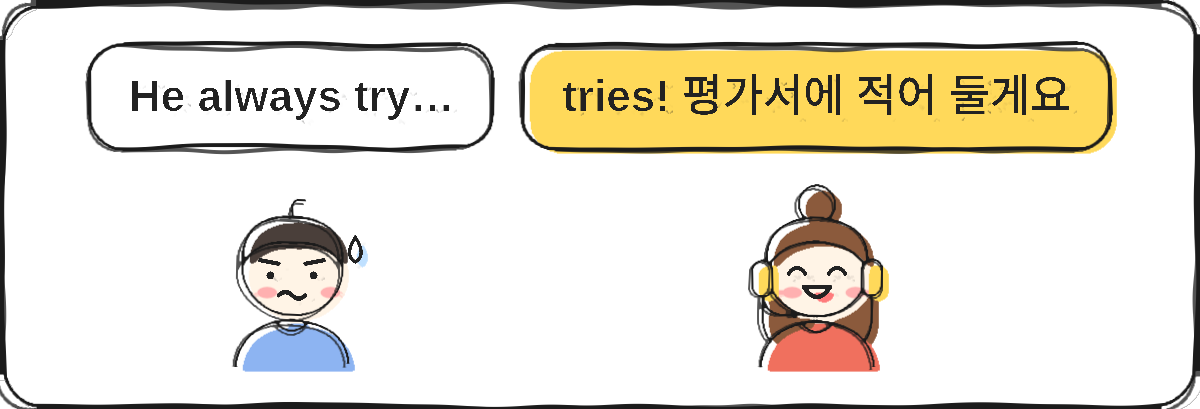
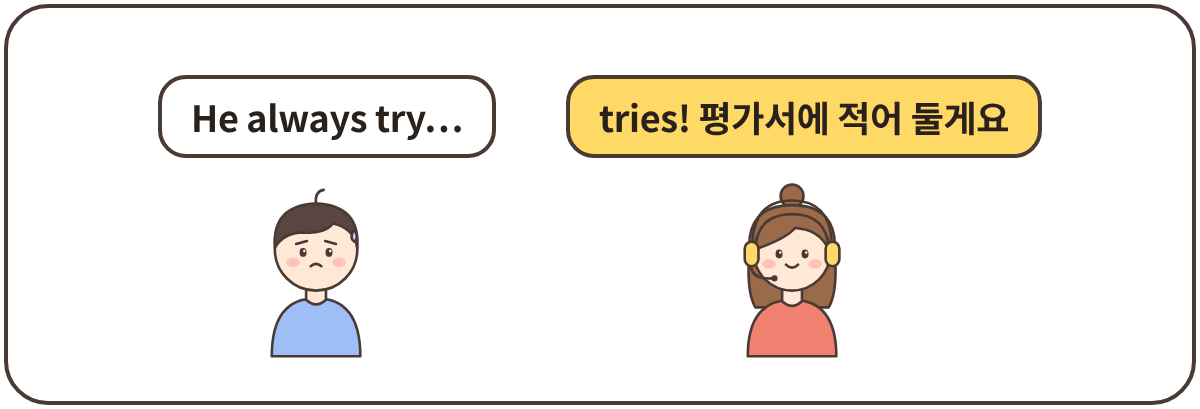
Manual: redraw illustrations with clean-line characters and the turtle guide
Replaces the doodle-style scenes (scene-1..9) with the new student,
teacher and turtle characters. Same file names and sizes, so the
manual page picks them up without an HTML change. Generators are in
tools/characters.

Claude-Session: https://claude.ai/code/session_01HUwuhdCWRQ2zhtChAaUpVm

diff --git a/tools/characters/chars.py b/tools/characters/chars.py
@@ -1,0 +1,123 @@
+#!/usr/bin/env python3
+"""아인잉글리쉬 캐릭터(학생·선생님·마스코트) SVG/PNG 생성기 — 깔끔한 선 버전.
+사용법: python3 tools/chars.py ch/
+선은 한 번만, 부드러운 갈색으로. 색은 선 안에 맞춘다."""
+import sys, os
+INK='#4A3A34'; SKIN='#FFE8D6'; CORAL='#F0806F'; BLUE='#9DBFF5'; YEL='#FFD966'; HAIR_S='#5A4640'; HAIR_T='#9A6A4A'; PINK='#FFA8A0'; W='#FFFFFF'
+ST=f'stroke="{INK}" stroke-width="3.4" stroke-linecap="round" stroke-linejoin="round"'
+
+def face(mood,cx=100,cy=100):
+    o=f'<ellipse cx="{cx-30}" cy="{cy+13}" rx="9" ry="6" fill="{PINK}" opacity=".6"/><ellipse cx="{cx+30}" cy="{cy+13}" rx="9" ry="6" fill="{PINK}" opacity=".6"/>'
+    eye=lambda x:f'<ellipse cx="{x}" cy="{cy}" rx="4.6" ry="5.8" fill="{INK}"/><circle cx="{x+1.6}" cy="{cy-2}" r="1.6" fill="#fff"/>'
+    arc=lambda x:f'<path d="M{x-7},{cy+2} Q{x},{cy-7} {x+7},{cy+2}" fill="none" {ST}/>'
+    if mood=='smile': o+=eye(cx-17)+eye(cx+17)+f'<path d="M{cx-8},{cy+14} Q{cx},{cy+22} {cx+8},{cy+14}" fill="none" {ST}/>'
+    elif mood=='happy': o+=arc(cx-17)+arc(cx+17)+f'<path d="M{cx-9},{cy+13} Q{cx},{cy+27} {cx+9},{cy+13} Z" fill="#E0604F" {ST} stroke-width="2.6"/>'
+    elif mood=='worry':
+        o+=eye(cx-17)+eye(cx+17)
+        o+=f'<path d="M{cx-26},{cy-11} L{cx-12},{cy-15}" fill="none" {ST} stroke-width="2.8"/><path d="M{cx+26},{cy-11} L{cx+12},{cy-15}" fill="none" {ST} stroke-width="2.8"/>'
+        o+=f'<path d="M{cx-7},{cy+18} Q{cx},{cy+12} {cx+7},{cy+18}" fill="none" {ST}/>'
+        o+=f'<path d="M{cx+50},{cy-30} q-7,11 0,16 q7,-5 0,-16Z" fill="#B5D4FA" {ST} stroke-width="2.4"/>'
+    elif mood=='open': o+=eye(cx-17)+eye(cx+17)+f'<ellipse cx="{cx}" cy="{cy+18}" rx="6" ry="7" fill="#E0604F" {ST} stroke-width="2.6"/>'
+    return o
+
+def P(d,fill): return f'<path d="{d}" fill="{fill}" {ST}/>'
+def C(cx,cy,r,fill): return f'<circle cx="{cx}" cy="{cy}" r="{r}" fill="{fill}" {ST}/>'
+
+def student(mood='smile',arms=None):
+    o=''
+    if arms=='up':
+        for sx in(-1,1):
+            o+=P(f'M{100+sx*40},186 Q{100+sx*72},170 {100+sx*70},122 L{100+sx*86},124 Q{100+sx*92},186 {100+sx*58},214 Z',BLUE)+C(100+sx*79,110,12,SKIN)
+    o+=P('M42,240 Q42,164 100,164 Q158,164 158,240 Z',BLUE)
+    o+=f'<path d="M87,140 L87,166 Q100,178 113,166 L113,140" fill="{SKIN}" {ST}/>'
+    o+=C(100,100,54,SKIN)
+    o+=P('M46,98 Q42,42 100,40 Q158,42 154,98 Q150,72 122,66 Q112,80 78,78 Q56,80 46,98 Z',HAIR_S)
+    o+=f'<path d="M100,40 Q98,24 110,22" fill="none" {ST}/>'
+    o+=face(mood,100,104)
+    if arms=='book':
+        o+=P('M56,204 Q78,196 100,206 Q122,196 144,204 L144,246 Q122,238 100,248 Q78,238 56,246 Z',W)+f'<path d="M100,206 L100,248" fill="none" {ST}/>'
+        o+=C(54,226,10,SKIN)+C(146,226,10,SKIN)
+    return o
+
+def teacher(mood='smile',arms=None):
+    o=C(100,30,15,HAIR_T)
+    o+=P('M44,104 Q40,42 100,42 Q160,42 156,104 Q160,156 148,176 L52,176 Q40,156 44,104 Z',HAIR_T)
+    o+=P('M42,240 Q42,166 100,166 Q158,166 158,240 Z',CORAL)
+    o+=f'<path d="M87,142 L87,168 Q100,180 113,168 L113,142" fill="{SKIN}" {ST}/>'
+    o+=C(100,104,50,SKIN)
+    o+=P('M52,100 Q54,54 100,54 Q146,54 148,100 Q136,74 104,72 Q92,86 52,100 Z',HAIR_T)
+    o+=f'<path d="M48,92 Q50,36 100,36 Q150,36 152,92" fill="none" {ST}/>'
+    o+=f'<rect x="38" y="90" width="18" height="32" rx="9" fill="{YEL}" {ST}/><rect x="144" y="90" width="18" height="32" rx="9" fill="{YEL}" {ST}/>'
+    o+=f'<path d="M46,122 Q48,140 74,138" fill="none" {ST} stroke-width="2.8"/><circle cx="77" cy="138" r="4" fill="{INK}"/>'
+    o+=face(mood,100,106)
+    if arms=='wave':
+        o+=P('M148,206 Q170,196 174,164 L188,168 Q188,214 160,230 Z',CORAL)+C(182,152,13,SKIN)
+        o+=f'<path d="M204,134 q7,6 5,15 M214,126 q10,9 8,22" fill="none" {ST} stroke-width="2.6"/>'
+    return o
+
+def mascot(mood='smile',arms=None):
+    o=f'<ellipse cx="84" cy="238" rx="13" ry="6.5" fill="{INK}"/><ellipse cx="116" cy="238" rx="13" ry="6.5" fill="{INK}"/>'
+    if arms=='up': o+=P('M66,170 Q40,160 36,134 L48,130 Q54,150 72,156 Z',W)+P('M134,170 Q160,160 164,134 L152,130 Q146,150 128,156 Z',W)
+    elif arms=='point': o+=P('M134,178 Q162,174 182,156 L190,166 Q170,190 138,192 Z',W)
+    o+=f'<ellipse cx="100" cy="190" rx="40" ry="48" fill="{W}" {ST}/>'
+    o+=f'<path d="M48,92 Q50,34 100,34 Q150,34 152,92" fill="none" stroke="{INK}" stroke-width="15" stroke-linecap="round"/><path d="M48,92 Q50,34 100,34 Q150,34 152,92" fill="none" stroke="{CORAL}" stroke-width="8.5" stroke-linecap="round"/>'
+    o+=C(100,102,50,W)
+    o+=f'<rect x="36" y="82" width="22" height="42" rx="11" fill="{CORAL}" {ST}/><rect x="142" y="82" width="22" height="42" rx="11" fill="{CORAL}" {ST}/>'
+    o+=face(mood,100,104)
+    if arms=='paper':
+        o+=f'<rect x="64" y="166" width="72" height="58" rx="7" fill="{W}" {ST}/><rect x="74" y="177" width="32" height="7" rx="3.5" fill="{CORAL}"/><rect x="74" y="191" width="52" height="5" rx="2.5" fill="#E2DCD6"/><rect x="74" y="202" width="42" height="5" rx="2.5" fill="#E2DCD6"/><rect x="74" y="213" width="48" height="5" rx="2.5" fill="{YEL}"/>'
+        o+=C(62,198,9,W)+C(138,198,9,W)
+    return o
+
+def svg(body,vb='-10 -4 250 262'): return f'<svg xmlns="http://www.w3.org/2000/svg" viewBox="{vb}">{body}</svg>'
+SET={'student-smile':student('smile'),'student-worry':student('worry'),'student-cheer':student('happy','up'),'student-open':student('open'),'student-book':student('happy','book'),
+     'teacher-smile':teacher('happy'),'teacher-wave':teacher('happy','wave'),'teacher-soft':teacher('smile'),
+     'mascot-smile':mascot('happy'),'mascot-point':mascot('happy','point'),'mascot-paper':mascot('smile','paper')}
+if __name__=='__main__':
+    out=sys.argv[1]; os.makedirs(out,exist_ok=True)
+    from playwright.sync_api import sync_playwright
+    with sync_playwright() as pw:
+        b=pw.chromium.launch(executable_path='/usr/bin/google-chrome'); pg=b.new_page(viewport={'width':500,'height':524})
+        for k,v in SET.items():
+            s=svg(v); open(f'{out}/{k}.svg','w').write(s)
+            pg.set_content(f'<body style="margin:0;background:transparent">{s.replace("<svg ","<svg width=500 height=524 ")}</body>'); pg.screenshot(path=f'{out}/{k}.png',omit_background=True)
+        b.close()
+
+# ---- 거북이 (인스타 프로필의 직장인 거북이 원본을 보고 같은 그림체로) ----
+GREEN='#A3CC52'; SHELL='#8E5A2B'; NAVY='#2F4270'; BELLY='#D9AE6C'
+def turtle(mood='tired',arms='coffee'):
+    # 원본 비율: 머리와 몸통이 거의 같은 폭, 셔츠 입은 몸통이 머리를 받친다
+    o=f'<path d="M104,136 Q144,126 160,150 Q176,180 168,214 Q160,240 130,238 L104,232 Z" fill="{SHELL}" {ST}/>'
+    o+=f'<path d="M156,160 L168,164 M160,188 L172,192 M156,214 L166,220" fill="none" stroke="{INK}" stroke-width="2.4" stroke-linecap="round"/>'
+    o+=f'<rect x="70" y="220" width="24" height="32" rx="10" fill="{GREEN}" {ST}/><rect x="108" y="220" width="24" height="32" rx="10" fill="{GREEN}" {ST}/>'
+    o+=P('M54,222 Q100,248 148,222 L146,206 L56,206 Z',BELLY)
+    if arms=='up': o+=P('M62,172 Q34,160 30,128 L46,124 Q50,150 72,156 Z',GREEN)+P('M140,172 Q168,160 172,128 L156,124 Q152,150 130,156 Z',GREEN)
+    elif arms=='point': o+=P('M138,170 Q168,166 192,146 L200,158 Q176,186 142,188 Z',GREEN)
+    o+=P('M54,214 Q46,134 100,130 Q156,134 148,214 Q100,226 54,214 Z',W)
+    o+=P('M84,122 L84,150 L100,166 L116,150 L116,122 Z',GREEN)
+    o+=f'<path d="M76,146 L100,168 L124,146" fill="none" {ST} stroke-width="2.8"/>'
+    o+=f'<path d="M100,168 L92,179 L100,210 L108,179 Z" fill="{NAVY}" {ST} stroke-width="2.6"/>'
+    if arms=='coffee':
+        o+=P('M134,160 Q152,164 152,200 Q150,220 138,218 Q128,214 130,190 Z',GREEN)
+        o+=P('M64,166 Q44,174 30,184 L36,200 Q54,192 72,186 Z',GREEN)
+        o+=f'<path d="M0,180 L32,180 Q32,208 16,208 Q0,208 0,180 Z" fill="{W}" {ST}/><ellipse cx="16" cy="180" rx="16" ry="4.5" fill="#6B4630" {ST} stroke-width="2.4"/><circle cx="35" cy="191" r="6.5" fill="{GREEN}" {ST} stroke-width="2.6"/>'
+        o+=f'<path d="M9,168 q-4,-5 0,-10 q4,-5 0,-10 M20,168 q-4,-5 0,-10 q4,-5 0,-10" fill="none" stroke="#B9B2AB" stroke-width="2.6" stroke-linecap="round"/>'
+    if arms=='point': o+=P('M62,166 Q46,182 52,204 L66,200 Q64,186 74,176 Z',GREEN)
+    o+='<g transform="translate(4,-2) scale(.96)">'
+    o+=f'<path d="M36,98 Q34,38 100,38 Q166,38 164,98 Q162,148 100,148 Q38,148 36,98 Z" fill="{GREEN}" {ST} stroke-width="3.6"/>'
+    cy=94
+    o+=f'<ellipse cx="52" cy="{cy+24}" rx="10" ry="6.5" fill="{PINK}" opacity=".7"/><ellipse cx="148" cy="{cy+24}" rx="10" ry="6.5" fill="{PINK}" opacity=".7"/>'
+    for x,rot in((74,-7),(126,7)):
+        o+=f'<ellipse cx="{x}" cy="{cy+13}" rx="13" ry="7" fill="#8B6A96" opacity=".22"/>'
+        o+=f'<circle cx="{x}" cy="{cy}" r="17" fill="{W}" {ST} stroke-width="3"/><circle cx="{x}" cy="{cy+4}" r="8.5" fill="{INK}"/><circle cx="{x+3}" cy="{cy+1}" r="2.8" fill="#fff"/>'
+        o+=f'<path d="M{x-15.9},{cy-6} A17,17 0 0 1 {x+15.9},{cy-6} Z" fill="#8DB843" {ST} stroke-width="3" transform="rotate({rot} {x} {cy})"/>'
+    o+=f'<path d="M60,68 Q69,66 76,60" fill="none" {ST} stroke-width="2.8"/><path d="M124,60 Q131,66 140,68" fill="none" {ST} stroke-width="2.8"/>'
+    if mood=='tired': o+=f'<path d="M92,130 Q100,123 108,130" fill="none" {ST} stroke-width="3.6"/>'
+    elif mood=='calm': o+=f'<path d="M91,125 Q100,134 109,125" fill="none" {ST} stroke-width="3.6"/>'
+    else: o+=f'<path d="M90,123 Q100,138 110,123 Z" fill="#E0604F" {ST} stroke-width="3"/>'
+    o+=f'<circle cx="96" cy="114" r="1.8" fill="{INK}"/><circle cx="104" cy="114" r="1.8" fill="{INK}"/></g>'
+    if arms=='paper':
+        o+=f'<rect x="60" y="166" width="80" height="60" rx="7" fill="{W}" {ST}/><rect x="70" y="177" width="36" height="7" rx="3.5" fill="{CORAL}"/><rect x="70" y="191" width="60" height="5" rx="2.5" fill="#E2DCD6"/><rect x="70" y="202" width="46" height="5" rx="2.5" fill="#E2DCD6"/><rect x="70" y="213" width="52" height="5" rx="2.5" fill="{YEL}"/>'
+        o+=C(58,198,9.5,GREEN)+C(142,198,9.5,GREEN)
+    return o
+TURTLE={'turtle-coffee':turtle('tired','coffee'),'turtle-point':turtle('calm','point'),'turtle-paper':turtle('calm','paper'),'turtle-cheer':turtle('open','up')}

diff --git a/tools/characters/scene.py b/tools/characters/scene.py
@@ -1,0 +1,27 @@
+"""새 캐릭터(깔끔한 선)로 장면 그림을 만드는 도구. 말풍선과 캐릭터를 HTML로 놓고 PNG로 찍는다."""
+import chars
+from playwright.sync_api import sync_playwright
+INK=chars.INK
+VB={'t':'-30 -6 250 262','p':'-10 -4 250 262'}
+def ch(name,h):
+    if name.startswith('turtle'): body=chars.TURTLE[name]; vb=VB['t']
+    else: body=chars.SET[name]; vb=VB['p']
+    return f'<svg xmlns="http://www.w3.org/2000/svg" viewBox="{vb}" height="{h}" width="{h*250/262:.0f}" style="flex:none;display:block">{body}</svg>'
+COL={'w':'#FFFFFF','y':'#FFD966','m':'#A8E6CF','b':'#DCE9FF','p':'#FFE7E1'}
+def bub(text,c='w',fs=40,tail=None):
+    r={'l':'28px 28px 28px 6px','r':'28px 28px 6px 28px',None:'28px'}[tail]
+    return f'<div style="flex:none;background:{COL[c]};border:4px solid {INK};border-radius:{r};padding:{fs*.42:.0f}px {fs*.8:.0f}px;font:700 {fs}px/1.25 \'Noto Sans CJK KR\',sans-serif;color:#2A211D;white-space:nowrap;letter-spacing:-.01em">{text}</div>'
+def row(*items,gap=18,align='center',justify='center',style=''):
+    return f'<div style="display:flex;align-items:{align};justify-content:{justify};gap:{gap}px;{style}">{"".join(items)}</div>'
+def col(*items,gap=18,style=''):
+    return f'<div style="display:flex;flex-direction:column;align-items:center;gap:{gap}px;{style}">{"".join(items)}</div>'
+def panel(inner,bg='#FFFFFF'):
+    return f'<div style="position:absolute;inset:4px;box-sizing:border-box;background:{bg};border:4px solid {INK};border-radius:44px;overflow:hidden;display:flex;align-items:center;justify-content:center">{inner}</div>'
+def render(jobs):
+    with sync_playwright() as pw:
+        b=pw.chromium.launch(executable_path='/usr/bin/google-chrome')
+        for path,(w,h,html) in jobs.items():
+            pg=b.new_page(viewport={'width':w,'height':h})
+            pg.set_content(f'<body style="margin:0;width:{w}px;height:{h}px;position:relative;overflow:hidden;background:transparent;display:flex;align-items:center;justify-content:center">{html}</body>')
+            pg.screenshot(path=path,omit_background=True); pg.close()
+        b.close()

diff --git a/tools/characters/manual_images.py b/tools/characters/manual_images.py
@@ -1,0 +1,18 @@
+import sys,os
+from scene import *
+out=sys.argv[1]; os.makedirs(out,exist_ok=True)
+J={}
+J['scene-1.png']=(1200,806,panel(col(
+    row(bub('수업은 어떻게 듣는 거지…?','w',44),),
+    row(ch('student-worry',215),ch('turtle-coffee',190),gap=150,style='margin-left:300px'),
+    bub('하나씩 알려 드릴게요!','y',44),
+    ch('teacher-smile',235),gap=14,style='margin-top:30px')))
+J['scene-2.png']=(1200,758,panel(col(bub('Can you introduce yourself?','y',44),ch('teacher-soft',200),bub('Hi! Nice to meet you!','m',44),ch('student-smile',200),gap=14,style='margin-top:26px'),'#EAF1FF'))
+J['scene-3.png']=(744,152,row(ch('turtle-point',150),bub('이어폰까지 챙기면 준비 끝!','w',38,'l')))
+J['scene-4.png']=(884,184,row(ch('student-cheer',182),bub('5분 전에 미리 들어와 있을게요!','m',38,'l')))
+J['scene-5.png']=(507,163,row(ch('student-worry',161),bub('앗, 늦었다…!','w',40,'l')))
+J['scene-6.png']=(953,310,col(row(bub('Could you speak slowly, please?','w',38,'r'),ch('teacher-smile',150),gap=22),row(bub('Sure! No problem!','y',38,'r'),style='margin-left:330px;margin-top:8px'),gap=0))
+J['scene-7.png']=(1200,409,panel(row(col(bub('He always try…','w',36),ch('student-worry',200),gap=12),col(bub('tries! 평가서에 적어 둘게요','y',36),ch('teacher-soft',200),gap=12),gap=70,align='flex-start',style='margin-top:36px')))
+J['scene-8.png']=(795,166,row(ch('turtle-point',164),bub('전화 없이, 클릭 몇 번이면 끝!','y',38,'l')))
+J['scene-9.png']=(682,159,row(ch('turtle-paper',157),bub('날짜 말고, 횟수로 세요!','w',38,'l')))
+render({f'{out}/{k}':v for k,v in J.items()})
